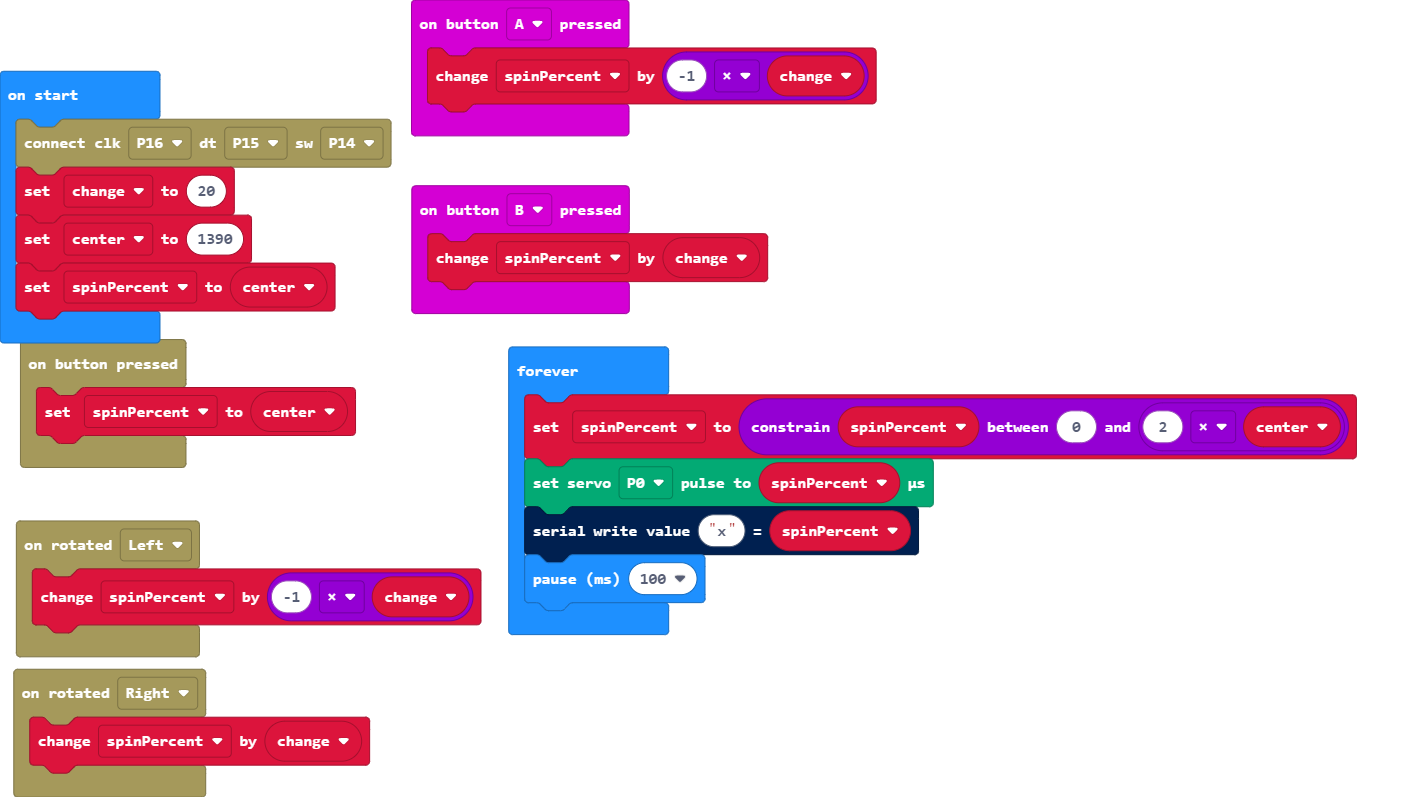
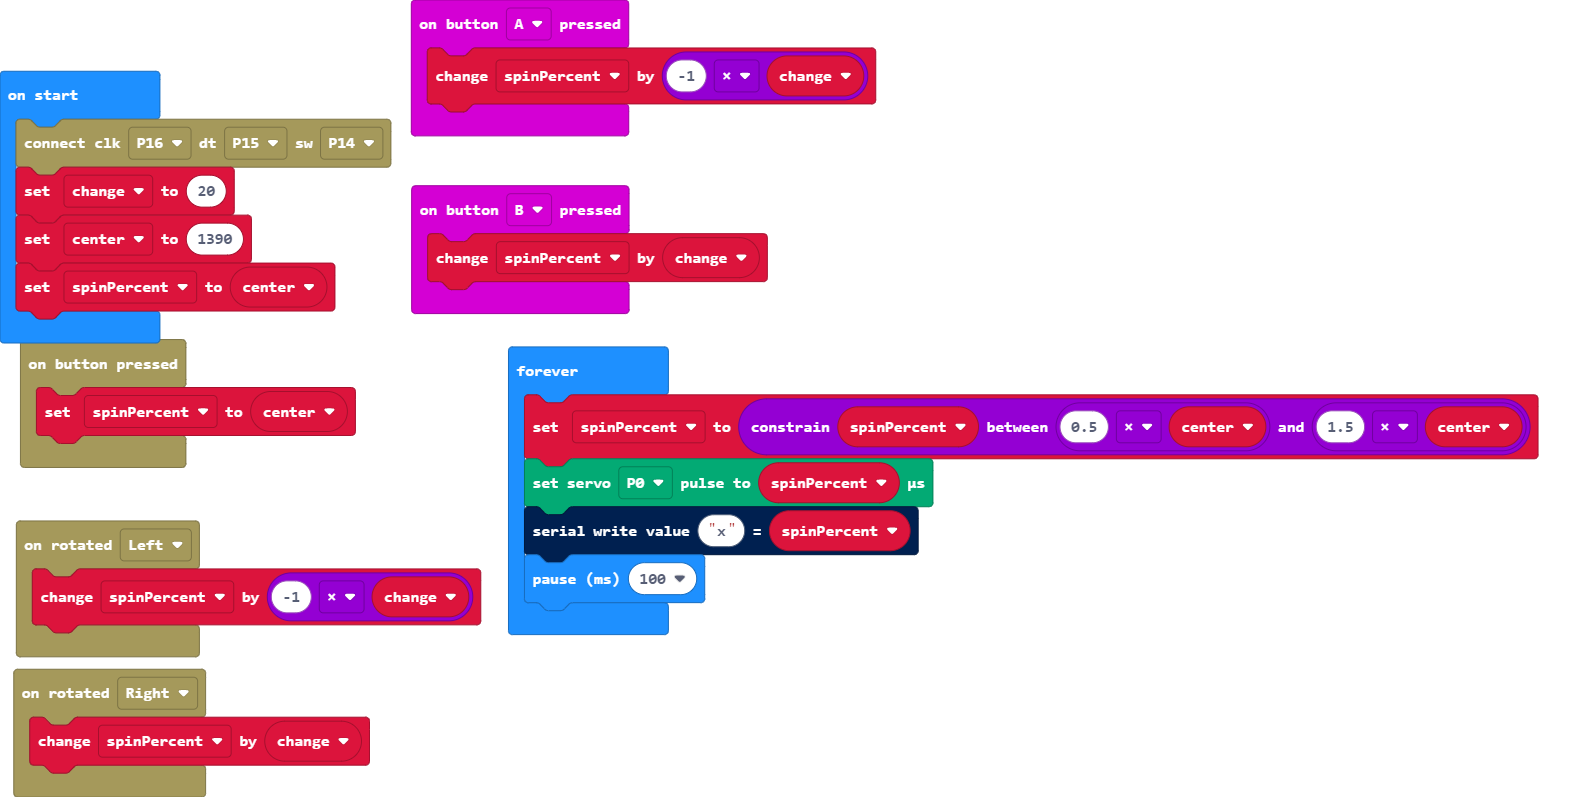
finished

Changed region(s): [[0.0, 0.0, 0.625, 0.6023], [0.0, 0.4216, 0.9688, 0.813], [0.0, 0.7829, 0.2812, 1.0]]

diff --git a/main.ts b/main.ts
@@ -21,7 +21,7 @@ change = 20
 center = 1390
 spinPercent = center
 basic.forever(function () {
-    spinPercent = Math.constrain(spinPercent, 0, 2 * center)
+    spinPercent = Math.constrain(spinPercent, 0.5 * center, 1.5 * center)
     servos.P0.setPulse(spinPercent)
     serial.writeValue("x", spinPercent)
     basic.pause(100)
